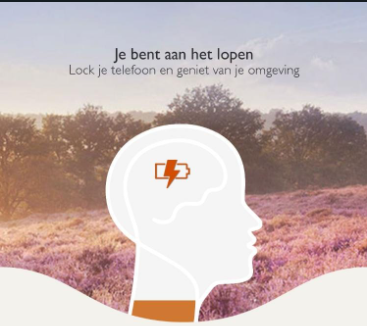
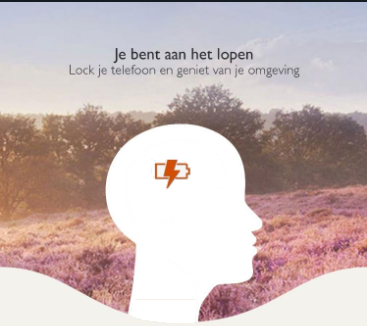
add animation head

Changed region(s): [[0.3597, 0.9202, 0.5395, 1.0]]

diff --git a/Frondend/Periode 3/ommetje/style.css b/Frondend/Periode 3/ommetje/style.css
@@ -722,5 +722,63 @@ body {
 }
 
 
+/* popup reeks medaille */
 
+
+    
+
+/* .hidden {
+display: none;
+}
+
+.popup {
+z-index: 500;
+position: fixed;
+left: 10%;
+background-color: white;
+padding: 30px;
+box-sizing: border-box;
+width: 75%;
+height: 60%;
+top: 20%;
+} */
+
+
+#full {
+    height: 319px;
+    width: 360px;
+    position: absolute;
+    background-color: #00FF00;
+    -webkit-animation: background 2400s cubic-bezier(1,0,0,1);
+    animation: background 2400s cubic-bezier(1,0,0,1);
+    z-index: -2;
+    top: 0px;
+}
+
+
+@-webkit-keyframes background {
+  0% { background-color: #ffab00; height: 0px; top: 318px;}
+  11% { background-color: #f2b400; height: 33px; top: 286px;} 
+  22% { background-color: #e4bd00; height: 67px; top: 252px;} 
+  33% { background-color: #d3c600; height: 100px; top: 219px;}
+  44% { background-color: #bfce00; height: 133px; top: 186px;} 
+  55% { background-color: #a8d600; height: 167px; top: 152px;}
+  67% { background-color: #8bde00; height: 200px; top: 119px;}
+  78% { background-color: #7be100; height: 233px; top: 86px;} 
+  89% { background-color: #4de805; height: 267px; top: 52px;} 
+  100% { background-color: #1beb12; height: 300px; top: 19px;}
+  }
+
+  @keyframes background {
+  0% { background-color: #ffab00; height: 0px; top: 318px;}
+  11% { background-color: #f2b400; height: 33px; top: 286px;} 
+  22% { background-color: #e4bd00; height: 67px; top: 252px;} 
+  33% { background-color: #d3c600; height: 100px; top: 219px;}
+  44% { background-color: #bfce00; height: 133px; top: 186px;} 
+  55% { background-color: #a8d600; height: 167px; top: 152px;}
+  67% { background-color: #8bde00; height: 200px; top: 119px;}
+  78% { background-color: #7be100; height: 233px; top: 86px;} 
+  89% { background-color: #4de805; height: 267px; top: 52px;} 
+  100% { background-color: #1beb12; height: 300px; top: 19px;}
+  }
 

diff --git a/Frondend/Periode 3/ommetje/start.html b/Frondend/Periode 3/ommetje/start.html
@@ -14,26 +14,36 @@
 
         #display {
             width: 100%;
-            font-size: 72px;
+            font-size: 40px;
             text-align: center;
             margin: 0px auto;
             position: absolute;
             top: 320px;
+            left: -20px;
+        }
+
+        .startgetal{
+            position: absolute;
+            left: 220px;
+            top: 325px;
+            font-size: 200%;
+            color: grey;
         }
     </style>
 </head>
 <body>
     
-<img class="imgs" src="bgs.png" alt="Paarse Heide">
+
+<div id="full"></div><img class="imgs" src="bgs.png" alt="Paarse Heide">
 
 
 <a href="index.html"><button class="but"><button class="stopbtn"></button></button></a> 
 
 <div class="container">
     <div id="display">
-        00: 00
+        00: 00 
     </div>
-
+    <div class="startgetal"> /20</div>
 </div>
 
 

diff --git a/Frondend/Periode 3/ommetje/index.html b/Frondend/Periode 3/ommetje/index.html
@@ -145,6 +145,10 @@ $('.image-link').magnificPopup({type:'image'});
 
 
     </div>    
+
+
+    <div class="popup">popup</div>
+
 <a href="#" class="hide" onClick="hide('popDiv')">Sluiten</a>
 
 

diff --git a/Backend/Cursussen/header.php b/Backend/Cursussen/header.php
@@ -31,13 +31,22 @@ if (isset($_SESSION['ingelogd'])){
                         <li class="nav-item">
                             <a class="nav-link" href="add.php">Cursussen toevoegen</a>
                         </li>
-                        <li class="nav-item">
-                        <a class="nav-link" href="register.php">Registreren</a>
-                        </li>
+ 
                         <li class="nav-item">
                             <a class="nav-link" href="uitloggen.php">Uitloggen</a>
                         </li>'
-                        ; }
+                        ; }else{
+                            echo '<nav class="navbar navbar-expand-lg navbar-light bg-light">
+                            <div class="container-fluid">
+                                <div class="collapse navbar-collapse" id="navbarText">
+                                    <ul class="navbar-nav me-auto mb-2 mb-lg-0">
+                            <li class="nav-item">
+                            <a class="nav-link" href="register.php">Registreren</a>
+                            </li>
+                            <li class="nav-item">
+                            <a class="nav-link" href="inloggen.php">Inloggen</a>
+                        </li>';
+                        }
                         
                         ?>
                 
